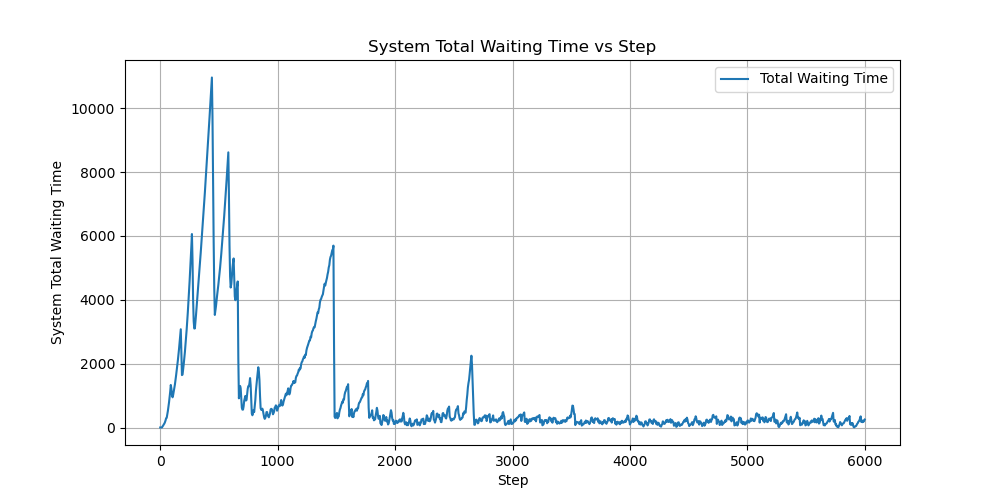
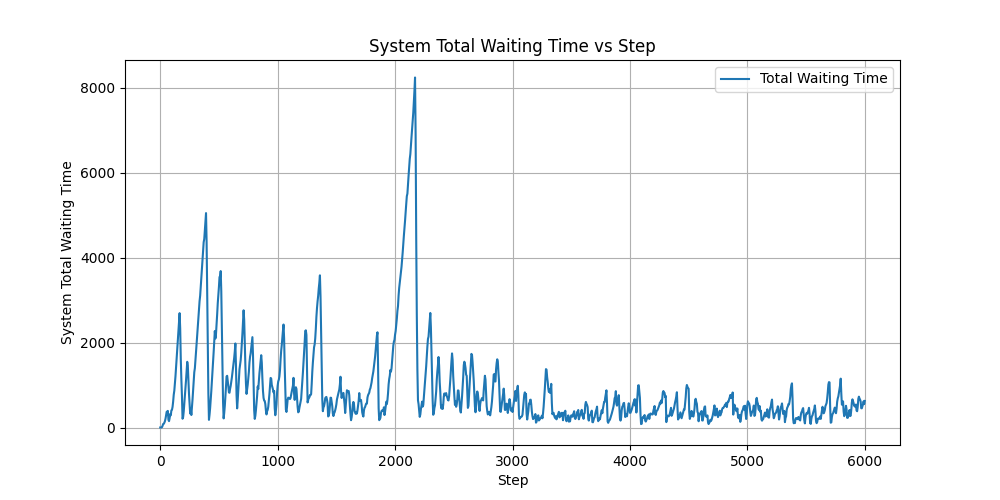
plot the results of our dqn

diff --git a/src/plotting/plot.py b/src/plotting/plot.py
@@ -6,7 +6,8 @@ import matplotlib.pyplot as plt
 #file_path = 'data/dqn_conn0_ep1.csv'  
 #file_path = 'data/DQN_2way_test_csv_run0_conn0_ep1.csv'
 #file_path = 'data/A2C_2way_test_csv_run0_conn0_ep1.csv'
-file_path = 'data/PPO_2way_test_csv_run0_conn0_ep1.csv'
+# file_path = 'data/PPO_2way_test_csv_run0_conn0_ep1.csv'
+file_path = 'data/dqn_2way_test_csv_run0_conn0_ep2.csv'
 data = pd.read_csv(file_path)
 
 # Plotting
@@ -19,7 +20,7 @@ plt.title('System Total Waiting Time vs Step')
 plt.legend()
 plt.grid(True)
 
-plt.savefig('outputs/PPO_2way_intersection.png', format='png')
+plt.savefig('outputs/dqn_2way_intersection.png', format='png')
 
 plt.show()
 
